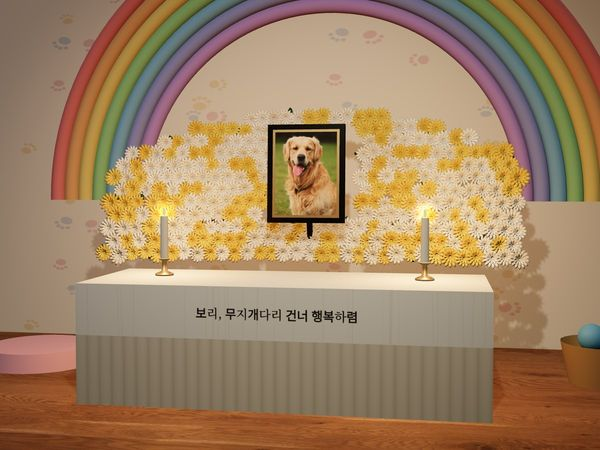
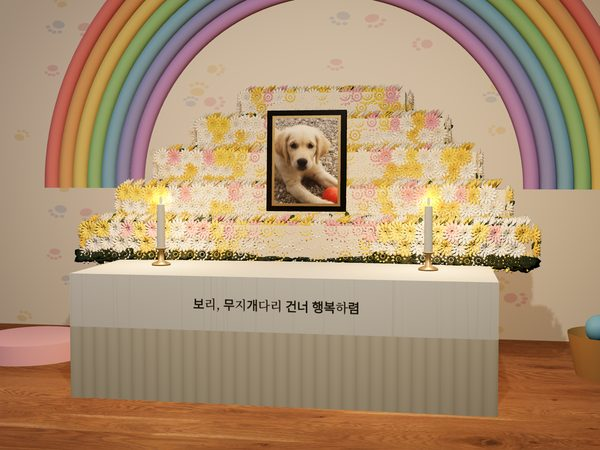
반려동물 예시: 예쁜 강아지(골든 리트리버)·고양이(랙돌) 사진으로 다시 꾸밈
Claude-Session: https://claude.ai/code/session_01WvjGqiVXugAiAGwkNjewY5

diff --git a/index.html b/index.html
@@ -100,9 +100,9 @@
         <figure><div class="img"><img src="/img/show/g-temple-s.jpg" srcset="/img/show/g-temple-s.jpg 600w, /img/show/g-temple.jpg 1200w" sizes="(max-width: 560px) 84vw, (max-width: 860px) 50vw, 370px" alt="산사 승탑. 연등 줄과 향로석, 장명등을 갖춘 불교 승탑" loading="lazy" width="1200" height="900"></div><figcaption><b>산사 승탑</b><span>연등 줄과 향로석, 장명등을 갖춘 불교 승탑</span></figcaption></figure>
       </div>
       <div class="shots" role="tabpanel" id="p-pet" aria-labelledby="t-pet" hidden>
-        <figure><div class="img"><img src="/img/show/pet-hall-s.jpg" srcset="/img/show/pet-hall-s.jpg 600w, /img/show/pet-hall.jpg 1200w" sizes="(max-width: 560px) 84vw, (max-width: 860px) 50vw, 370px" alt="무지개 분향소. 무지개 아래 노란 국화 제단과 아이 사진" loading="lazy" width="1200" height="900"></div><figcaption><b>무지개 분향소</b><span>무지개 아래 노란 국화 제단과 아이 사진</span></figcaption></figure>
-        <figure><div class="img"><img src="/img/show/pet-grave-s.jpg" srcset="/img/show/pet-grave-s.jpg 600w, /img/show/pet-grave.jpg 1200w" sizes="(max-width: 560px) 84vw, (max-width: 860px) 50vw, 370px" alt="무지개 언덕. 아이 비석과 사진 액자, 밥그릇과 공" loading="lazy" width="1200" height="900"></div><figcaption><b>무지개 언덕</b><span>아이 비석과 사진 액자, 밥그릇과 공</span></figcaption></figure>
-        <figure><div class="img"><img src="/img/show/pet-grave2-s.jpg" srcset="/img/show/pet-grave2-s.jpg 600w, /img/show/pet-grave2.jpg 1200w" sizes="(max-width: 560px) 84vw, (max-width: 860px) 50vw, 370px" alt="무지개 언덕 · 해 질 녘. 나비의 사진 액자와 비석" loading="lazy" width="1200" height="900"></div><figcaption><b>무지개 언덕 · 해 질 녘</b><span>나비의 사진 액자와 비석</span></figcaption></figure>
+        <figure><div class="img"><img src="/img/show/pet-hall-s.jpg?v=2" srcset="/img/show/pet-hall-s.jpg?v=2 600w, /img/show/pet-hall.jpg?v=2 1200w" sizes="(max-width: 560px) 84vw, (max-width: 860px) 50vw, 370px" alt="무지개 분향소. 무지개 아래 노란 국화 제단과 아이 사진" loading="lazy" width="1200" height="900"></div><figcaption><b>무지개 분향소</b><span>무지개 아래 노란 국화 제단과 아이 사진</span></figcaption></figure>
+        <figure><div class="img"><img src="/img/show/pet-grave-s.jpg?v=2" srcset="/img/show/pet-grave-s.jpg?v=2 600w, /img/show/pet-grave.jpg?v=2 1200w" sizes="(max-width: 560px) 84vw, (max-width: 860px) 50vw, 370px" alt="무지개 언덕. 아이 비석과 사진 액자, 밥그릇과 공" loading="lazy" width="1200" height="900"></div><figcaption><b>무지개 언덕</b><span>아이 비석과 사진 액자, 밥그릇과 공</span></figcaption></figure>
+        <figure><div class="img"><img src="/img/show/pet-grave2-s.jpg?v=2" srcset="/img/show/pet-grave2-s.jpg?v=2 600w, /img/show/pet-grave2.jpg?v=2 1200w" sizes="(max-width: 560px) 84vw, (max-width: 860px) 50vw, 370px" alt="무지개 언덕 · 해 질 녘. 나비의 사진 액자와 비석" loading="lazy" width="1200" height="900"></div><figcaption><b>무지개 언덕 · 해 질 녘</b><span>나비의 사진 액자와 비석</span></figcaption></figure>
       </div>
       <p class="fine">예시 속 인물과 반려동물은 꾸밈을 보여 드리기 위한 가상의 예시입니다.</p>
     </div>
@@ -210,9 +210,9 @@
         <p>무지개다리를 건넌 반려견, 반려묘, 그리고 모든 친구들을 위한 정원이에요. 추모관을 모시면 이곳에 함께 있어, 다른 분들도 꽃 한 송이 놓아 줄 수 있어요.</p>
       </div>
       <div class="shots petshots">
-        <figure><div class="img"><img src="/img/show/pet-hall-s.jpg" srcset="/img/show/pet-hall-s.jpg 600w, /img/show/pet-hall.jpg 1200w" sizes="(max-width: 560px) 84vw, (max-width: 860px) 50vw, 370px" alt="무지개 분향소. 무지개 아래 노란 국화 제단과 아이 사진" loading="lazy" width="1200" height="900"></div><figcaption><b>무지개 분향소</b><span>무지개 아래 노란 국화 제단과 아이 사진</span></figcaption></figure>
-        <figure><div class="img"><img src="/img/show/pet-grave-s.jpg" srcset="/img/show/pet-grave-s.jpg 600w, /img/show/pet-grave.jpg 1200w" sizes="(max-width: 560px) 84vw, (max-width: 860px) 50vw, 370px" alt="무지개 언덕. 아이 비석과 사진 액자, 밥그릇과 공" loading="lazy" width="1200" height="900"></div><figcaption><b>무지개 언덕</b><span>아이 비석과 사진 액자, 밥그릇과 공</span></figcaption></figure>
-        <figure><div class="img"><img src="/img/show/pet-grave2-s.jpg" srcset="/img/show/pet-grave2-s.jpg 600w, /img/show/pet-grave2.jpg 1200w" sizes="(max-width: 560px) 84vw, (max-width: 860px) 50vw, 370px" alt="무지개 언덕 · 해 질 녘. 나비의 사진 액자와 비석" loading="lazy" width="1200" height="900"></div><figcaption><b>무지개 언덕 · 해 질 녘</b><span>나비의 사진 액자와 비석</span></figcaption></figure>
+        <figure><div class="img"><img src="/img/show/pet-hall-s.jpg?v=2" srcset="/img/show/pet-hall-s.jpg?v=2 600w, /img/show/pet-hall.jpg?v=2 1200w" sizes="(max-width: 560px) 84vw, (max-width: 860px) 50vw, 370px" alt="무지개 분향소. 무지개 아래 노란 국화 제단과 아이 사진" loading="lazy" width="1200" height="900"></div><figcaption><b>무지개 분향소</b><span>무지개 아래 노란 국화 제단과 아이 사진</span></figcaption></figure>
+        <figure><div class="img"><img src="/img/show/pet-grave-s.jpg?v=2" srcset="/img/show/pet-grave-s.jpg?v=2 600w, /img/show/pet-grave.jpg?v=2 1200w" sizes="(max-width: 560px) 84vw, (max-width: 860px) 50vw, 370px" alt="무지개 언덕. 아이 비석과 사진 액자, 밥그릇과 공" loading="lazy" width="1200" height="900"></div><figcaption><b>무지개 언덕</b><span>아이 비석과 사진 액자, 밥그릇과 공</span></figcaption></figure>
+        <figure><div class="img"><img src="/img/show/pet-grave2-s.jpg?v=2" srcset="/img/show/pet-grave2-s.jpg?v=2 600w, /img/show/pet-grave2.jpg?v=2 1200w" sizes="(max-width: 560px) 84vw, (max-width: 860px) 50vw, 370px" alt="무지개 언덕 · 해 질 녘. 나비의 사진 액자와 비석" loading="lazy" width="1200" height="900"></div><figcaption><b>무지개 언덕 · 해 질 녘</b><span>나비의 사진 액자와 비석</span></figcaption></figure>
       </div>
       <div class="cards pets" id="home-pets"></div>
       <div class="actions"><a class="btn sky" href="/create/?target=pet">반려동물 추모관 만들기</a><a class="btn skyline" href="/pet/">무지개 정원 모두 보기</a><a class="btn skyline" href="/pet/#guide">반려동물 장례 안내</a></div>

diff --git a/pet/index.html b/pet/index.html
@@ -27,9 +27,9 @@
     <h2>이렇게 꾸며 드려요</h2>
     <p class="lead">앱에서 실제로 꾸민 화면이에요. 무지개 분향소와 무지개 언덕에 아이의 사진을 모셔요.</p>
     <div class="shots">
-      <figure><div class="img"><img src="/img/show/pet-hall-s.jpg" srcset="/img/show/pet-hall-s.jpg 600w, /img/show/pet-hall.jpg 1200w" sizes="(max-width: 560px) 84vw, (max-width: 860px) 50vw, 370px" alt="무지개 분향소. 무지개 아래 노란 국화 제단과 아이 사진" loading="lazy" width="1200" height="900"></div><figcaption><b>무지개 분향소</b><span>무지개 아래 노란 국화 제단과 아이 사진</span></figcaption></figure>
-      <figure><div class="img"><img src="/img/show/pet-grave-s.jpg" srcset="/img/show/pet-grave-s.jpg 600w, /img/show/pet-grave.jpg 1200w" sizes="(max-width: 560px) 84vw, (max-width: 860px) 50vw, 370px" alt="무지개 언덕. 아이 비석과 사진 액자, 밥그릇과 공" loading="lazy" width="1200" height="900"></div><figcaption><b>무지개 언덕</b><span>아이 비석과 사진 액자, 밥그릇과 공</span></figcaption></figure>
-      <figure><div class="img"><img src="/img/show/pet-grave2-s.jpg" srcset="/img/show/pet-grave2-s.jpg 600w, /img/show/pet-grave2.jpg 1200w" sizes="(max-width: 560px) 84vw, (max-width: 860px) 50vw, 370px" alt="무지개 언덕 · 해 질 녘. 사진 액자와 비석" loading="lazy" width="1200" height="900"></div><figcaption><b>무지개 언덕 · 해 질 녘</b><span>사진 액자와 비석</span></figcaption></figure>
+      <figure><div class="img"><img src="/img/show/pet-hall-s.jpg?v=2" srcset="/img/show/pet-hall-s.jpg?v=2 600w, /img/show/pet-hall.jpg?v=2 1200w" sizes="(max-width: 560px) 84vw, (max-width: 860px) 50vw, 370px" alt="무지개 분향소. 무지개 아래 노란 국화 제단과 아이 사진" loading="lazy" width="1200" height="900"></div><figcaption><b>무지개 분향소</b><span>무지개 아래 노란 국화 제단과 아이 사진</span></figcaption></figure>
+      <figure><div class="img"><img src="/img/show/pet-grave-s.jpg?v=2" srcset="/img/show/pet-grave-s.jpg?v=2 600w, /img/show/pet-grave.jpg?v=2 1200w" sizes="(max-width: 560px) 84vw, (max-width: 860px) 50vw, 370px" alt="무지개 언덕. 아이 비석과 사진 액자, 밥그릇과 공" loading="lazy" width="1200" height="900"></div><figcaption><b>무지개 언덕</b><span>아이 비석과 사진 액자, 밥그릇과 공</span></figcaption></figure>
+      <figure><div class="img"><img src="/img/show/pet-grave2-s.jpg?v=2" srcset="/img/show/pet-grave2-s.jpg?v=2 600w, /img/show/pet-grave2.jpg?v=2 1200w" sizes="(max-width: 560px) 84vw, (max-width: 860px) 50vw, 370px" alt="무지개 언덕 · 해 질 녘. 사진 액자와 비석" loading="lazy" width="1200" height="900"></div><figcaption><b>무지개 언덕 · 해 질 녘</b><span>사진 액자와 비석</span></figcaption></figure>
     </div>
   </div></section>
   <section class="section"><div class="wrap">
